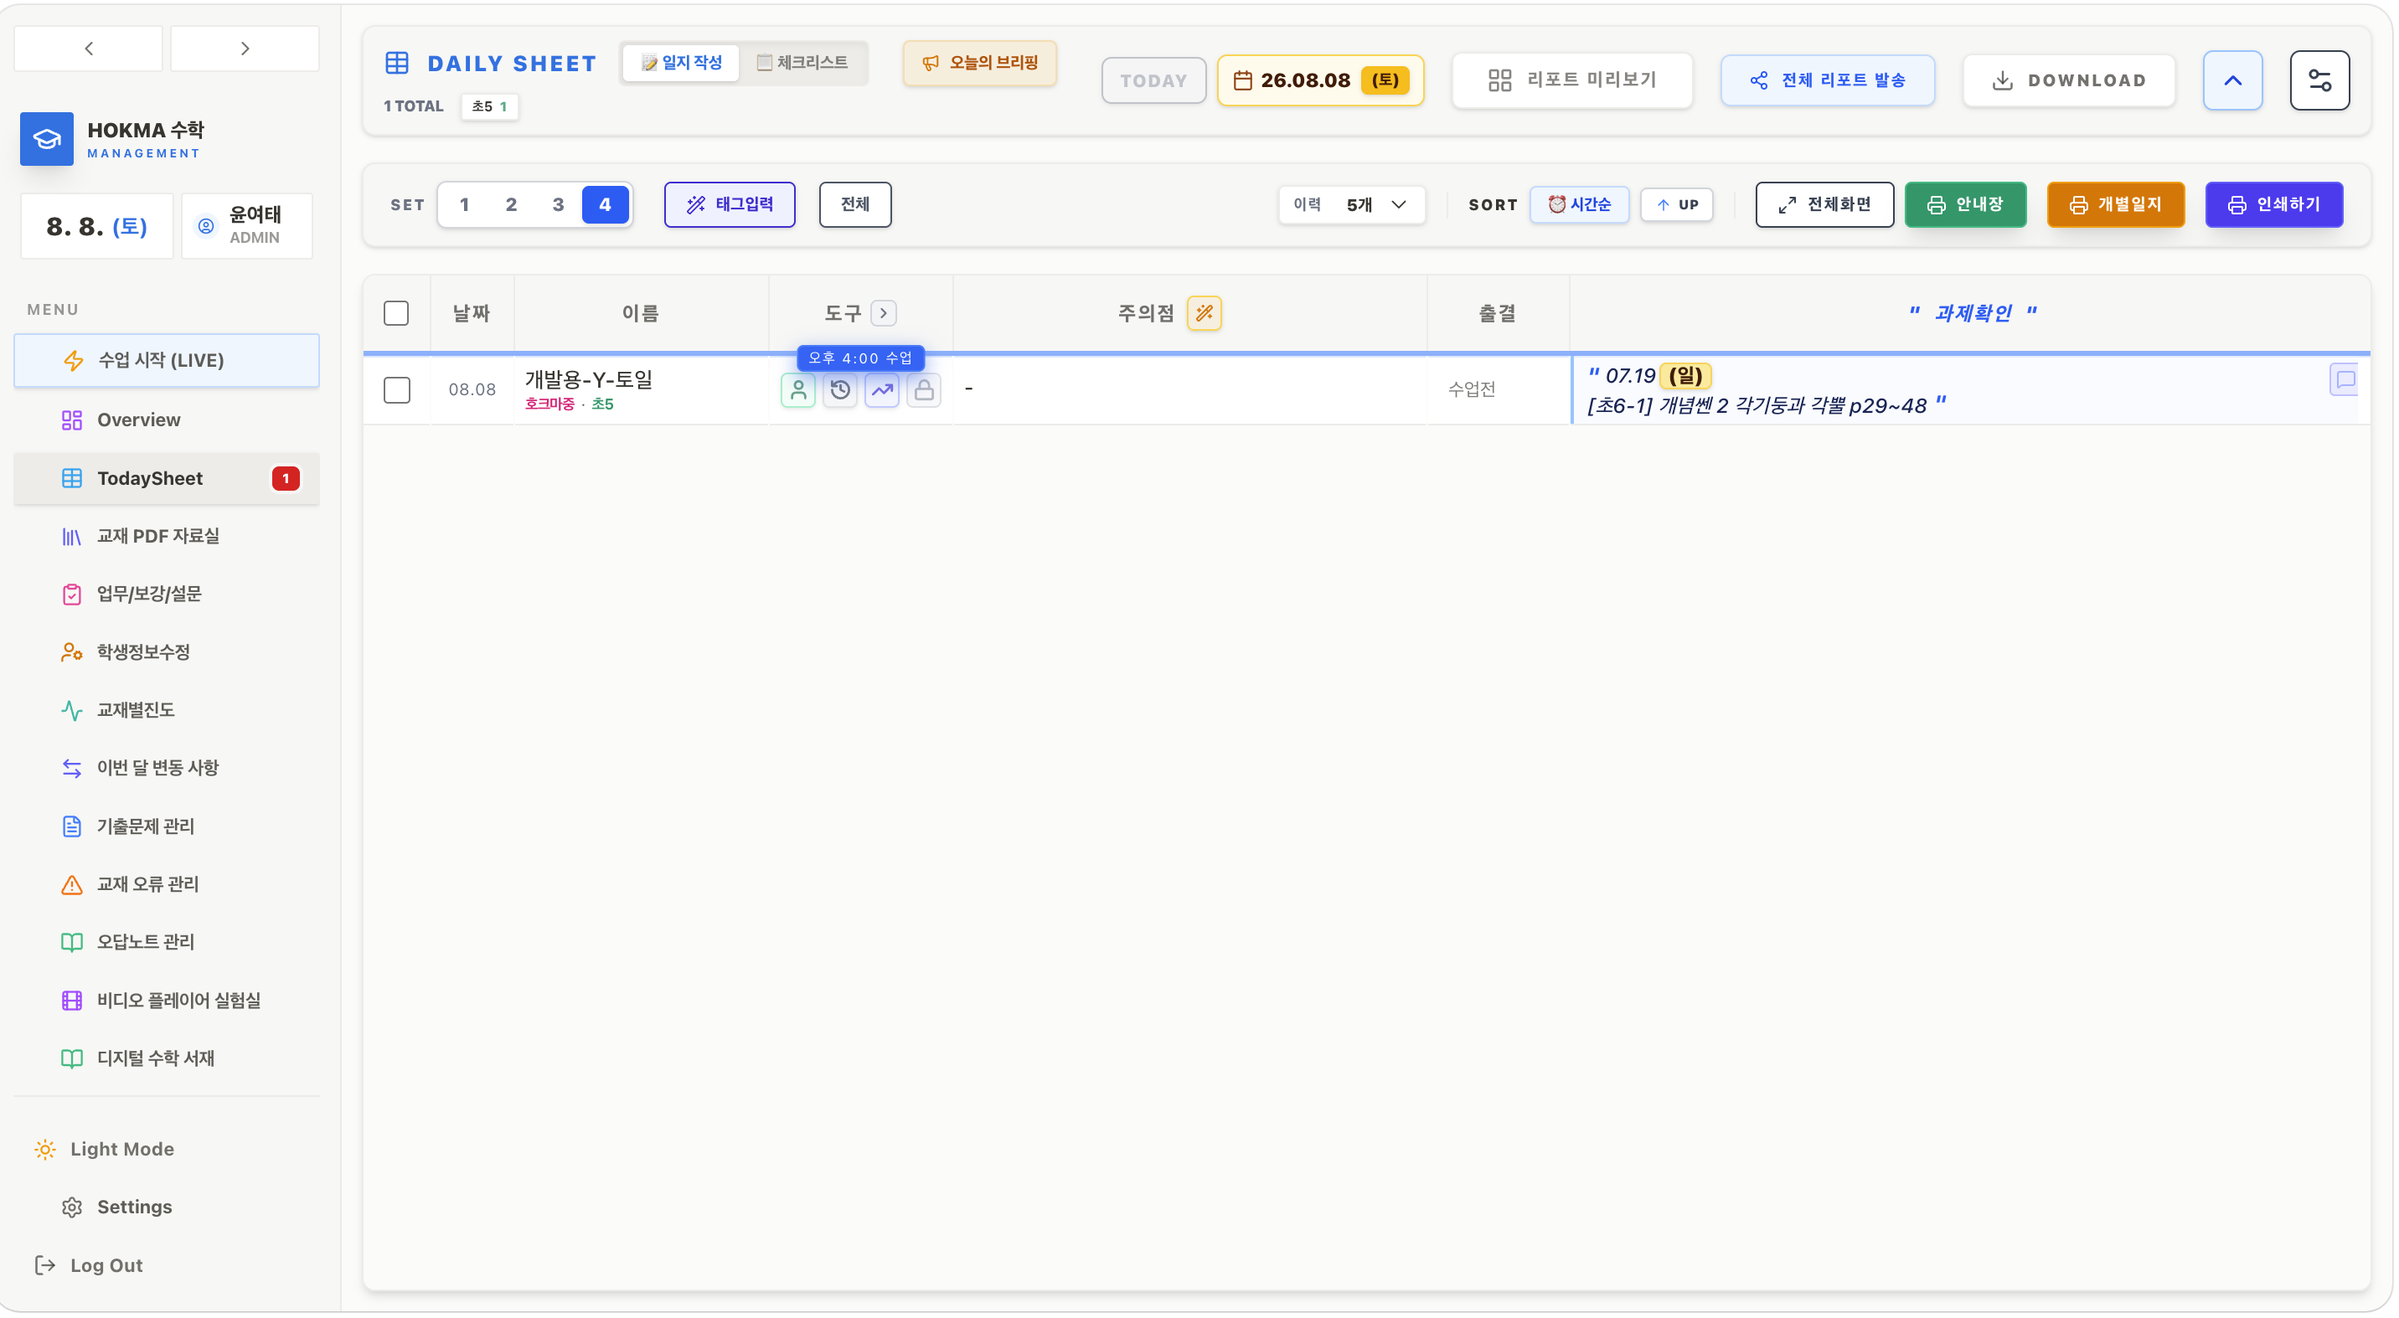
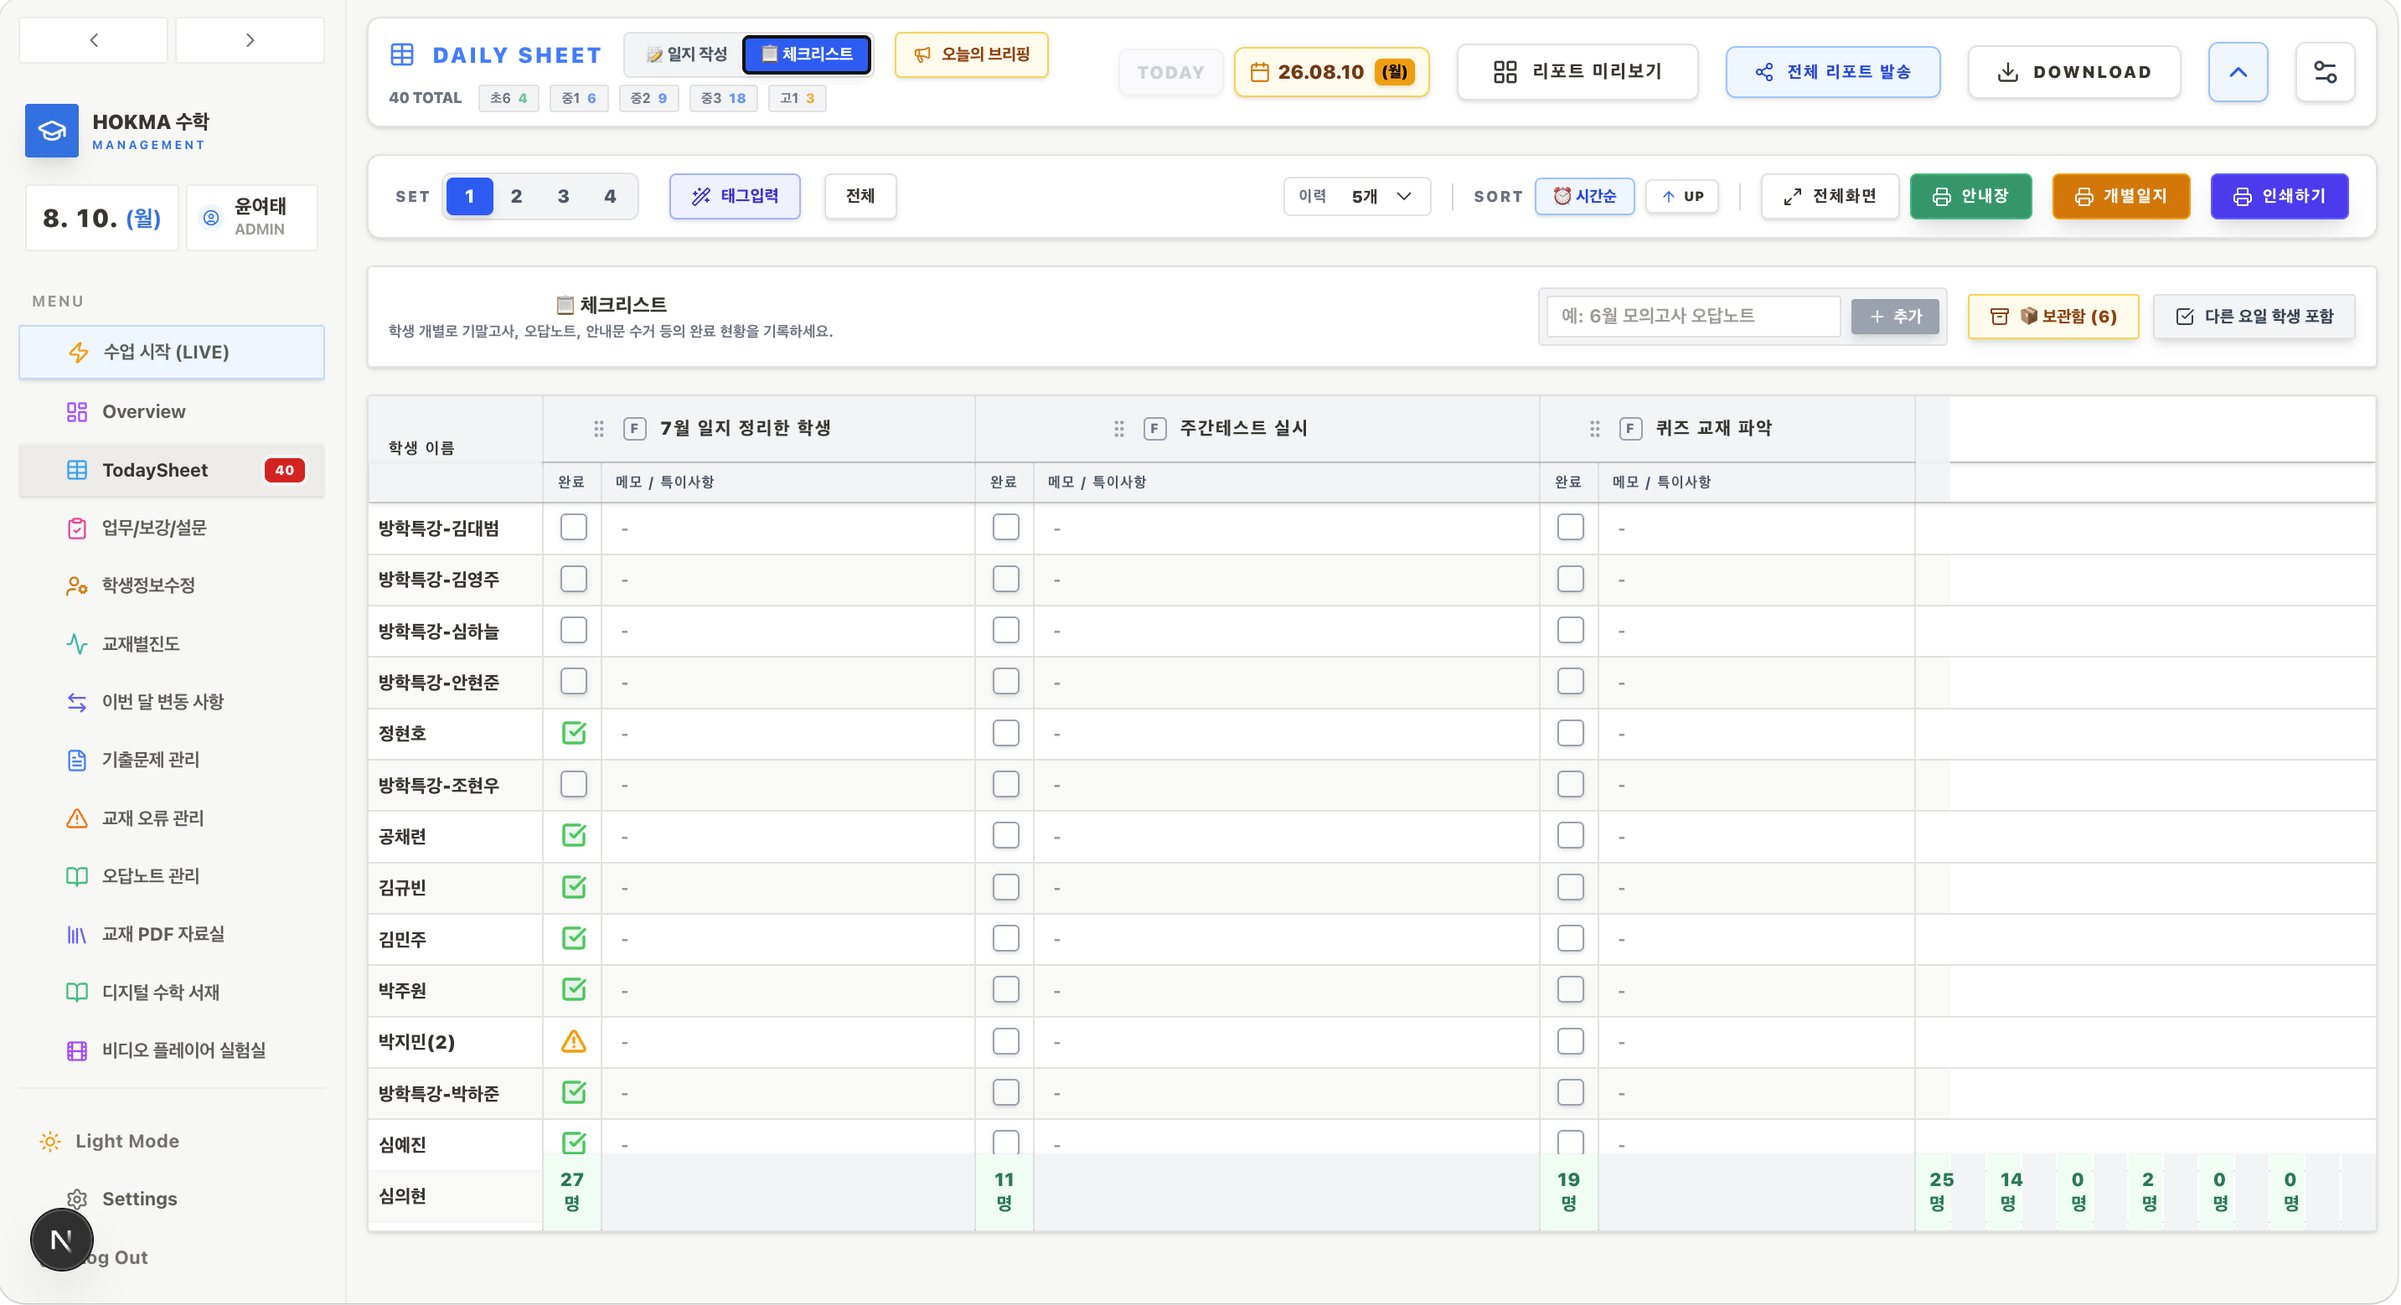
fix: refine makeup session hour parsing and student data enricher logic

diff --git a/components/dashboard/todaySheet/hooks/useTodaySheetRows.ts b/components/dashboard/todaySheet/hooks/useTodaySheetRows.ts
@@ -148,10 +148,7 @@ export function useTodaySheetRows({
               const courseSubject = c.subject?.trim() || '특강';
               const hasLogToday = (s.allLogs || []).some((l: any) => {
                 if ((l.date || l.session_date) !== selectedDate) return false;
-                const logCourse = l.course_name || '정규';
-                if (['특강', '방학특강', '선택과목'].includes(courseSubject)) {
-                  return ['특강', '방학특강', '선택과목'].includes(logCourse);
-                }
+                const logCourse = (l.course_name || '정규').trim();
                 return logCourse === courseSubject;
               });
 
@@ -169,10 +166,7 @@ export function useTodaySheetRows({
         const courseSubject = c.subject?.trim() || '특강';
         const electiveLog = (s.allLogs || []).find((l: any) => {
           if ((l.date || l.session_date) !== selectedDate) return false;
-          const logCourse = l.course_name || '정규';
-          if (['특강', '방학특강', '선택과목'].includes(courseSubject)) {
-            return ['특강', '방학특강', '선택과목'].includes(logCourse);
-          }
+          const logCourse = (l.course_name || '정규').trim();
           return logCourse === courseSubject;
         });
 
@@ -217,12 +211,12 @@ export function useTodaySheetRows({
       // 💡 [시간 이동 정밀 복원] 당일 정규 로그 중 시간이동(moved_to_hour)이 존재하는 로그를 최우선 채택
       const movedRegularLog = todayLogs.find((l: any) => (l.course_name === '정규' || !l.course_name) && l.moved_to_hour !== null && l.moved_to_hour !== undefined && l.moved_to_hour > 0);
       const regularLog = movedRegularLog || todayLogs.find((l: any) => (l.course_name === '정규' || !l.course_name));
-      const rawMakeupLogs = todayLogs.filter((l: any) => (!l.course_name || l.course_name === '정규') && l.moved_to_hour !== null && l.moved_to_hour !== undefined && l.moved_to_hour > 0);
+      const rawMakeupLogs = todayLogs.filter((l: any) => l.is_pure_makeup || (l.attendance_status && l.attendance_status.startsWith('보강')) || (l.moved_to_hour !== null && l.moved_to_hour !== undefined && l.moved_to_hour > 0));
 
-      // 💡 [중복 완벽 차단] 동일 학생/날짜 보강 세션 중 가장 최신의 1개 보강 세션만 채택!
+      // 💡 [중복 완벽 차단] 동일 학생/날짜/과목/시간 보강 세션만 고유하게 채택!
       const uniqueMakeupMap = new Map<string, any>();
       rawMakeupLogs.forEach((mLog: any) => {
-        const key = `${mLog.student_id || realId}_${mLog.course_name || '정규'}`;
+        const key = `${mLog.student_id || realId}_${mLog.course_name || '정규'}_${mLog.moved_to_hour || mLog.id || mLog.attendance_status}`;
         uniqueMakeupMap.set(key, mLog);
       });
       const makeupLogs = Array.from(uniqueMakeupMap.values());
@@ -274,10 +268,7 @@ export function useTodaySheetRows({
       );
 
       if (isRegularClassDay) {
-        // 1. 원래 오늘 정규 수업일인 경우 정규 행 배치
-        shouldShowRegular = true;
-      } else if (regularLog && !isCanceled && !isPureMakeupLog) {
-        // 2. 원래 수업일이 아니었지만 보강이 아닌 일반 정규 세션이 명시적으로 작성된 경우 노출
+        // 1. 원래 오늘 정규 수업일인 경우에만 정규 행 배치
         shouldShowRegular = true;
       }
 
@@ -317,11 +308,22 @@ export function useTodaySheetRows({
 
       // (3) 보강 전용 독립 행 추가 (독립 등록된 보강인 경우만 별도 행 생성, 정규 수업 시간이동은 정규 행 이동으로 처리)
       makeupLogs.forEach((mLog: any) => {
-        const makeupHour = mLog.moved_to_hour;
+        // 💡 [시간 파싱 강화] moved_to_hour 또는 attendance_status ("보강:19:00~21:00") 에서 시각 파싱
+        let makeupHour = mLog.moved_to_hour;
+        if (!makeupHour || makeupHour <= 0) {
+          const attStatus = mLog.attendance_status || '';
+          const match = attStatus.match(/(\d{1,2}):/);
+          if (match) {
+            makeupHour = parseInt(match[1], 10);
+          }
+        }
         const sessionId = mLog.id || mLog.created_at || makeupHour;
         const makeupId = `${realId}_makeup_${sessionId}`;
 
-        const isPureMakeup = mLog.is_pure_makeup || mLog.attendance_reason?.includes('보강') || (!isRegularClassDay && mLog.attendance_status?.startsWith('보강'));
+        const isPureMakeup = mLog.is_pure_makeup || 
+          (mLog.attendance_status && mLog.attendance_status.startsWith('보강')) || 
+          (mLog.attendance_reason && mLog.attendance_reason.includes('보강')) ||
+          (!isRegularClassDay && mLog.attendance_status?.startsWith('보강'));
         if (isRegularClassDay && shouldShowRegular && !isPureMakeup) {
           return;
         }
@@ -343,12 +345,12 @@ export function useTodaySheetRows({
             ...s,
             id: makeupId,
             originalId: realId,
-            isSpecialClass: false,
+            isSpecialClass: mLog.course_name && mLog.course_name !== '정규',
             isMakeupRow: true,
-            courseName: '정규',
+            courseName: mLog.course_name || '정규',
             day_schedules: {
               ...s.day_schedules,
-              [dayKey]: [makeupHour]
+              [dayKey]: makeupHour ? [makeupHour] : (s.day_schedules?.[dayKey] || [])
             },
             lastSession: makeupLastSession,
             todaySession: mLog
@@ -379,17 +381,27 @@ export function useTodaySheetRows({
     }
 
     // 💡 4. 시간대 계산 헬퍼 (1~12시는 오후 13~24시로 일관성 있게 통일)
-    const normalizeHour = (val: number) => {
-      if (!val || val <= 0) return 99;
-      let h = val >= 100 ? Math.floor(val / 100) : val;
+    const normalizeHour = (val: number | string) => {
+      if (!val) return 99;
+      let num = typeof val === 'number' ? val : parseInt(String(val), 10);
+      if (isNaN(num) || num <= 0) return 99;
+      let h = num >= 100 ? Math.floor(num / 100) : num;
       if (h > 0 && h <= 12) h += 12;
       return h;
     };
 
     const getStartTime = (st: any) => {
-      // 💡 1. 명시적 시간이동 정보(moved_to_hour)가 있으면 정규/보강 상관없이 이동된 교시 최우선 적용!!
-      if (st.todaySession?.moved_to_hour !== undefined && st.todaySession?.moved_to_hour !== null && st.todaySession.moved_to_hour > 0) {
-        return normalizeHour(st.todaySession.moved_to_hour);
+      // 💡 1. 명시적 시간이동 정보(moved_to_hour) 또는 attendance_status ("보강:19:00~21:00") 파싱 시각 최우선 적용!!
+      const movedHour = st.todaySession?.moved_to_hour;
+      if (movedHour !== undefined && movedHour !== null && movedHour > 0) {
+        return normalizeHour(movedHour);
+      }
+      const attStatus = st.todaySession?.attendance_status || '';
+      if (attStatus.startsWith('보강:')) {
+        const m = attStatus.match(/(\d{1,2}):/);
+        if (m) {
+          return normalizeHour(parseInt(m[1], 10));
+        }
       }
 
       const hours = st.day_schedules?.[dayKey] || [];

diff --git a/lib/studentDataEnricher.ts b/lib/studentDataEnricher.ts
@@ -305,9 +305,9 @@ export const getEnrichedStudentData = (
   const history = calculateStudentHistory(logs, selectedDate);
   const baseSession = selectBaseSession(logs, selectedDate, academy?.operation_settings?.holidays, '정규');
   const todayLogs = logs.filter((l: any) => String(l.date || l.session_date) === String(selectedDate));
-  // 💡 [시간 이동 / 보강 완전 분리] 순수 보강(is_pure_makeup) 로그는 정규 수업 세션으로 채택되는 것을 원천 차단
-  const movedTodayLog = todayLogs.find((l: any) => (l.course_name === '정규' || !l.course_name) && !l.is_pure_makeup && l.moved_to_hour !== null && l.moved_to_hour !== undefined && l.moved_to_hour > 0);
-  const regularTodayLog = movedTodayLog || todayLogs.find((l: any) => (l.course_name === '정규' || !l.course_name) && !l.is_pure_makeup);
+  const isMakeupLog = (l: any) => l.is_pure_makeup || (l.attendance_status && l.attendance_status.startsWith('보강')) || (l.attendance_reason && l.attendance_reason.includes('보강'));
+  const movedTodayLog = todayLogs.find((l: any) => (l.course_name === '정규' || !l.course_name) && !isMakeupLog(l) && l.moved_to_hour !== null && l.moved_to_hour !== undefined && l.moved_to_hour > 0);
+  const regularTodayLog = movedTodayLog || todayLogs.find((l: any) => (l.course_name === '정규' || !l.course_name) && !isMakeupLog(l));
   
   let electiveDays: string[] = [];
   const rawElective = s.book_courses?.['__elective_courses'];

diff --git a/components/dashboard/todaySheet/TodaySheetCell.tsx b/components/dashboard/todaySheet/TodaySheetCell.tsx
@@ -364,7 +364,18 @@ export const TodaySheetCell = React.memo(function TodaySheetCell({
             onMouseDown={(e) => {
               e.stopPropagation();
               e.preventDefault();
-              onRemoveFromToday?.(student.id, '수업 취소', 'delete');
+              const sAny = student as any;
+              const isMakeup = sAny?.isMakeupRow || String(student?.id || '').includes('_makeup_') || (formData?.attendance_status && formData.attendance_status.startsWith('보강'));
+              const isSpecial = sAny?.isSpecialClass || String(student?.id || '').includes('_special_');
+              
+              if (isMakeup) {
+                onRemoveFromToday?.(student.id, '보강 삭제', 'delete');
+              } else if (isSpecial) {
+                onRemoveFromToday?.(student.id, '특강 삭제', 'delete');
+              } else {
+                // 정규 수업일 경우 출결 상태를 '수업전'으로 초기화
+                onSave?.('attendance', ATTENDANCE_STATUS.BEFORE);
+              }
             }}
             onClick={(e) => {
               e.stopPropagation();

diff --git a/components/dashboard/hooks/useTodaySheetShortcuts.ts b/components/dashboard/hooks/useTodaySheetShortcuts.ts
@@ -120,7 +120,7 @@ export function useTodaySheetShortcuts(props: UseTodaySheetShortcutsProps) {
         return { textVal: st.recent_mission || sess.mission || '', extraData: {} };
       }
       if (colId === 'management_notes') {
-        return { textVal: st.management_notes || sess.management_notes || '', extraData: {} };
+        return { textVal: sess.management_notes || '', extraData: {} };
       }
       if (colId === 'next_quiz') {
         let nqText = sess.next_quiz_text || '';
@@ -452,7 +452,7 @@ export function useTodaySheetShortcuts(props: UseTodaySheetShortcutsProps) {
               const prevD: any = {};
               Object.keys(nD).forEach(k => {
                 if (k === 'mission') prevD[k] = st.recent_mission || sess.mission || '';
-                else if (k === 'management_notes') prevD[k] = st.management_notes || sess.management_notes || '';
+                else if (k === 'management_notes') prevD[k] = sess.management_notes || '';
                 else prevD[k] = sess[k] || '';
               });
               updates.push({ studentId: st.id, newData: nD, prevData: prevD });

diff --git a/components/dashboard/hooks/useTodaySheetRowLogic.ts b/components/dashboard/hooks/useTodaySheetRowLogic.ts
@@ -171,10 +171,8 @@ export function useTodaySheetRowLogic({
     // 💡 [단순명확 원칙] 학생미션(mission)은 과거/기존 JSON 기록을 절대 당겨오지 않고 '당일 직저' 입력된 session.mission 만 사용!
     const initialMission = session?.mission || '';
 
-    // 💡 [규칙] 주의점(management_notes)은 당일 작성 세션 내용 또는 학생 마스터 기록 보존
-    const initialNotes = (sessionNotes !== undefined && sessionNotes !== null)
-      ? sessionNotes
-      : (student.management_notes || '');
+    // 💡 [단순명확 원칙] 주의점(management_notes)은 당일 세션 기록(session.management_notes)만 사용 (마스터 주의점 자동 fallback 금지)
+    const initialNotes = sessionNotes || '';
     
     return {
       attendance_status: normalizeAttendanceStatus(session?.attendance_status),

diff --git a/components/dashboard/hooks/useTodaySheetClipboard.ts b/components/dashboard/hooks/useTodaySheetClipboard.ts
@@ -69,7 +69,7 @@ export function useTodaySheetClipboard({
         else if (col.id === 'date') val = selectedDate;
         else if (col.id === 'review') val = st.lastSession?.homework_text || '';
         else if (col.id === 'mission') val = st.recent_mission || session.mission || '';
-        else if (col.id === 'management_notes') val = st.management_notes || session.management_notes || '';
+        else if (col.id === 'management_notes') val = session.management_notes || '';
         else if (col.id === 'next_quiz') {
           val = session.next_quiz_text || '';
           if (!val && session.homework_to) {

diff --git a/project_logs.md b/project_logs.md
@@ -283,3 +283,17 @@
       - 현재 실시간 운영 중인 학원 수업에 전혀 차질을 주지 않기 위해, 개발 단계에서 **`USE_SUPABASE_TEXTBOOK_MASTER` 스위치 플래그**를 도입합니다.
       - **폴백(Fallback) 방어 모드**: Supabase DB 조회 결과가 없거나 예외 발생 시, 구글 시트 데이터로 자동으로 즉시 대체(Fallback)하여 수업 시간 중 서비스 중단 위험을 0%로 통제합니다.
       - **단계적 스위칭**: 로컬/테스트 환경에서 Supabase DB 데이터를 완벽히 검증한 후, 원하는 시점에 플래그 조작으로 구글 시트 모드 ↔ Supabase 모드를 자유롭게 스위칭하며 안전하게 전환합니다.
+
+---
+
+## 5. 최근 긴급 수리 및 시스템 규격 기록 (2026-08-10)
+
+### A. 수업 / 보강 / 시간이동 세션 로그 시각(Hour) 단일 통합 파서(Unified Parser) 규격
+- **배경**: 보강 탭, TodaySheet, LiveMode, 시간표 간에 교시 시각 데이터(숫자형 19, 문자열 "19:00", 보강 상태문자열 "보강:19:00~21:00") 저장 파편화로 인해 화면 노출 누락 및 시간이동 위치 어긋남 현상이 반복 발생함.
+- **통합 파서 규격 (Single Source of Truth)**:
+  - moved_to_hour 숫자/문자열(19, "19") 및 attendance_status 문자열("보강:19:00~21:00")을 모두 지원하도록 헬퍼 로직을 통일함.
+  - 1~12시는 오후 교시인 경우 +12 (오후 13~24시)로 정규화(normalizeHour)하여, 어떤 형식의 시간 데이터가 유입되든 TodaySheet 지정 교시에 100% 동일하게 배치 및 정렬되도록 보장함.
+- **과목 구분 뱃지(Tag Badge) 규격**:
+  - 보강 탭 및 LiveMode 카드에서 정규 보강과 선택과목(특강) 보강이 한눈에 구분되도록 [정규] (파란색) 및 [선택과목/특강명] (보라/fuchsia색) 뱃지 표출 로직 정돈 완료.
+- **Supabase DB 스키마 안전성 보장**:
+  - DB 테이블(ams_session_logs)에 존재하지 않는 임시 프론트엔드 플래그(is_pure_makeup)의 Insert/Update 페이로드 유입을 완전 제거하여 PGRST204 스키마 오류 발생을 사전 차단함.
